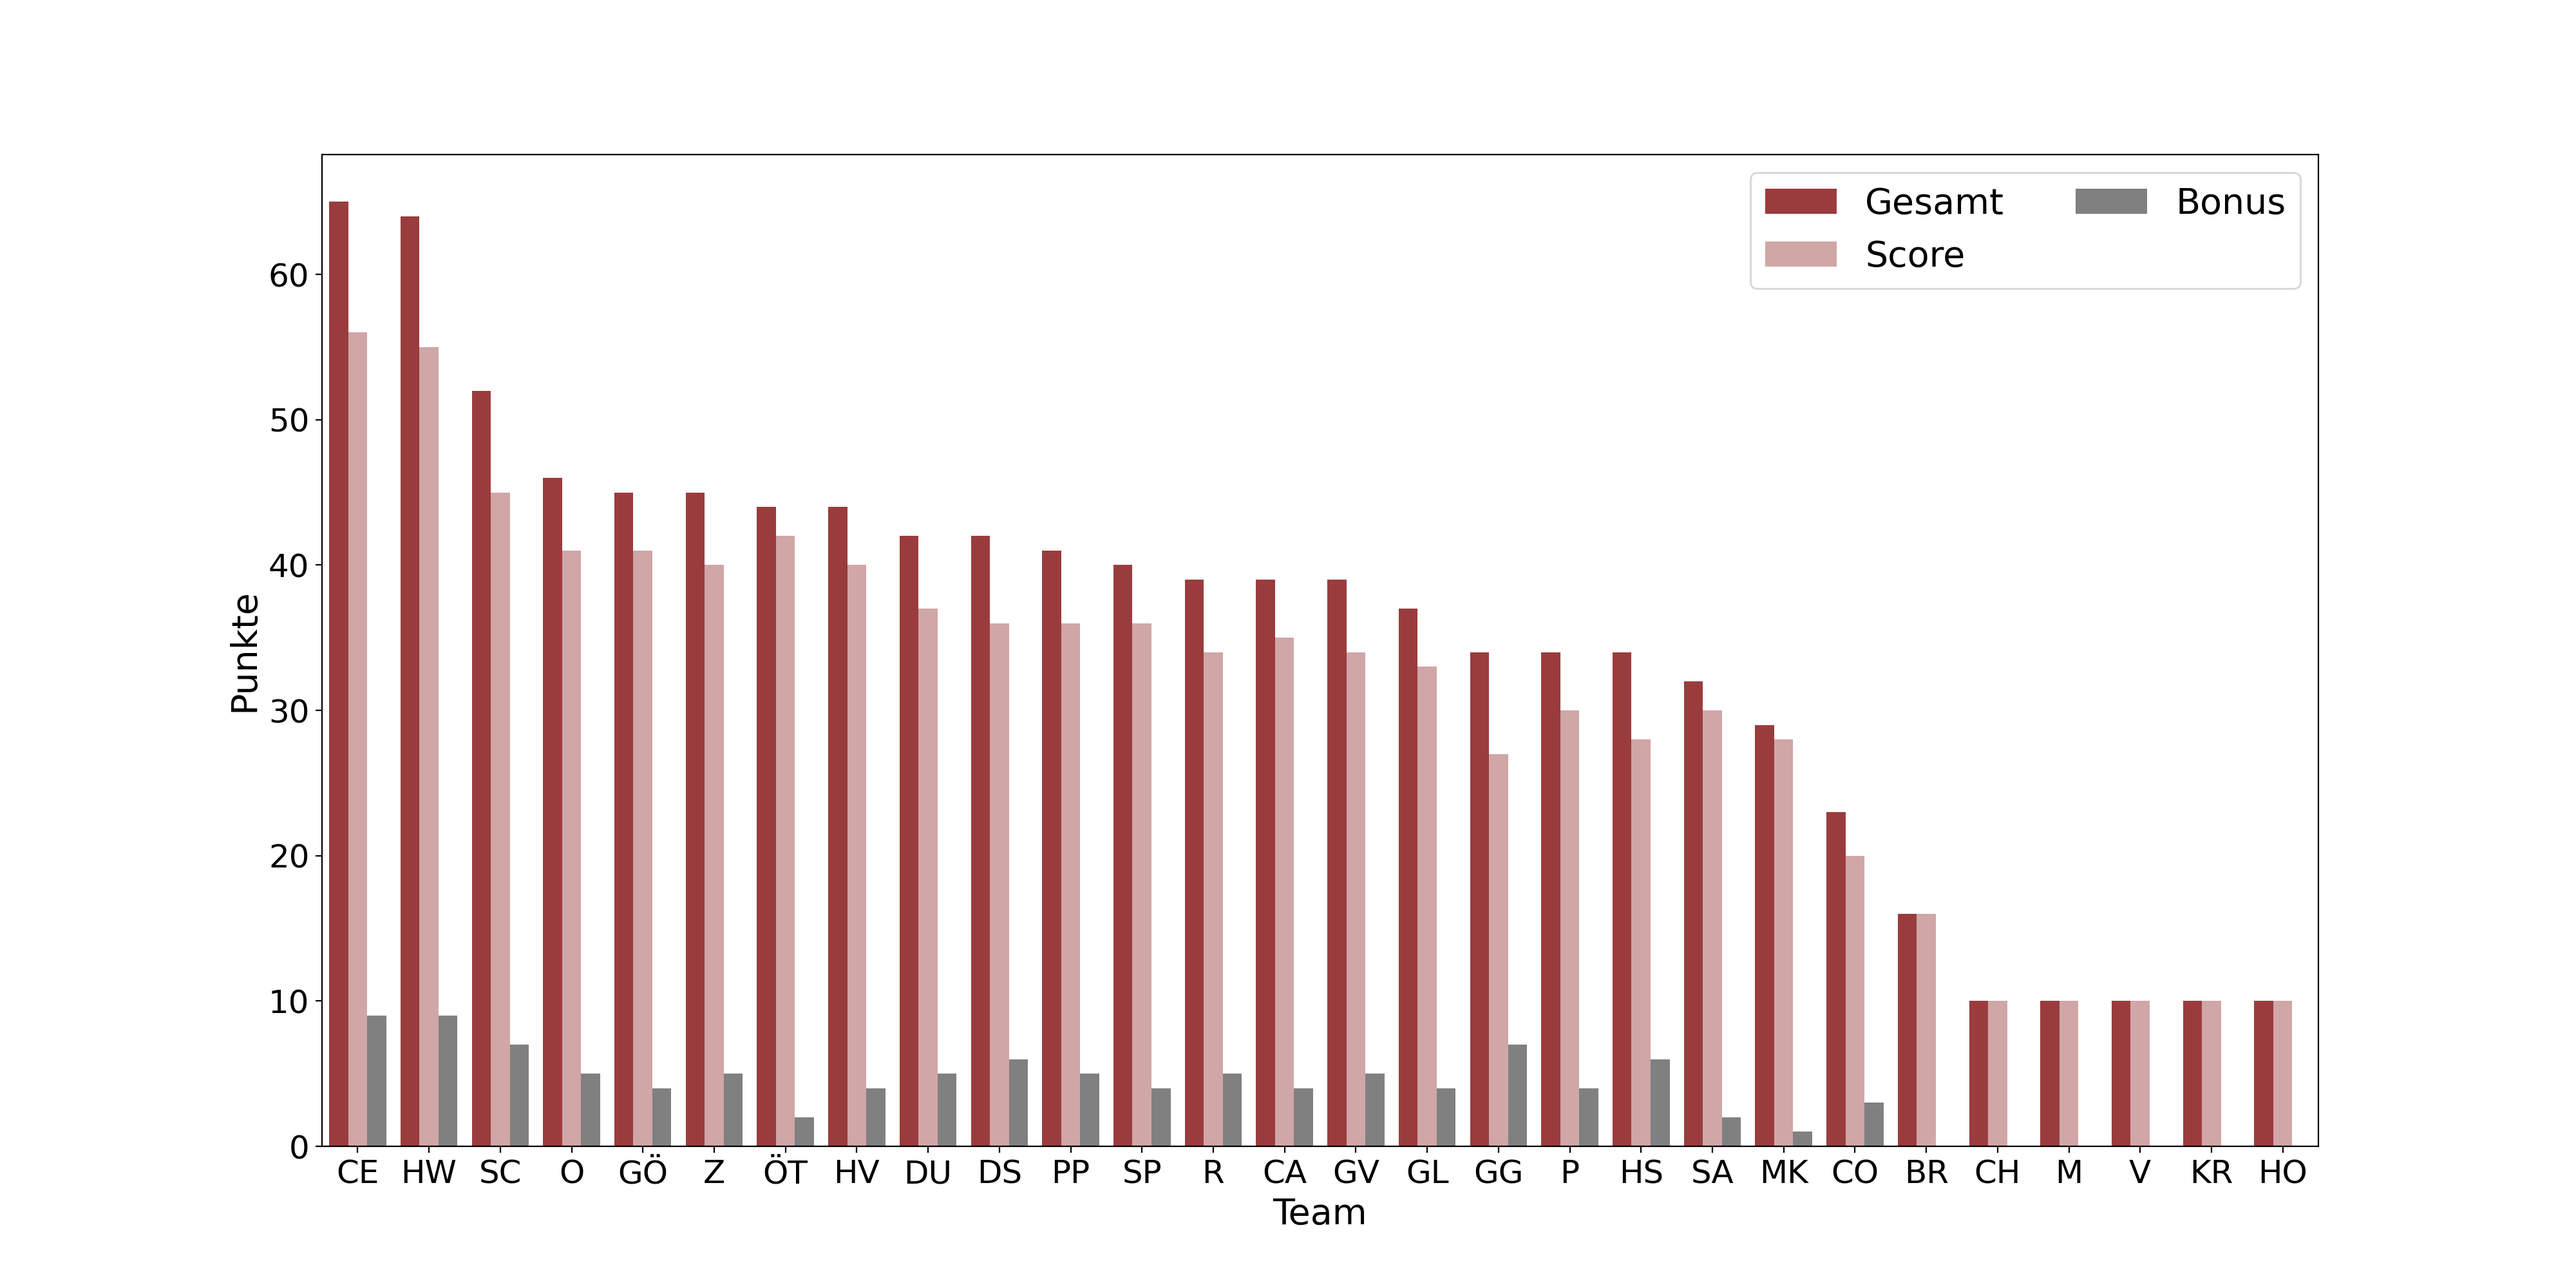
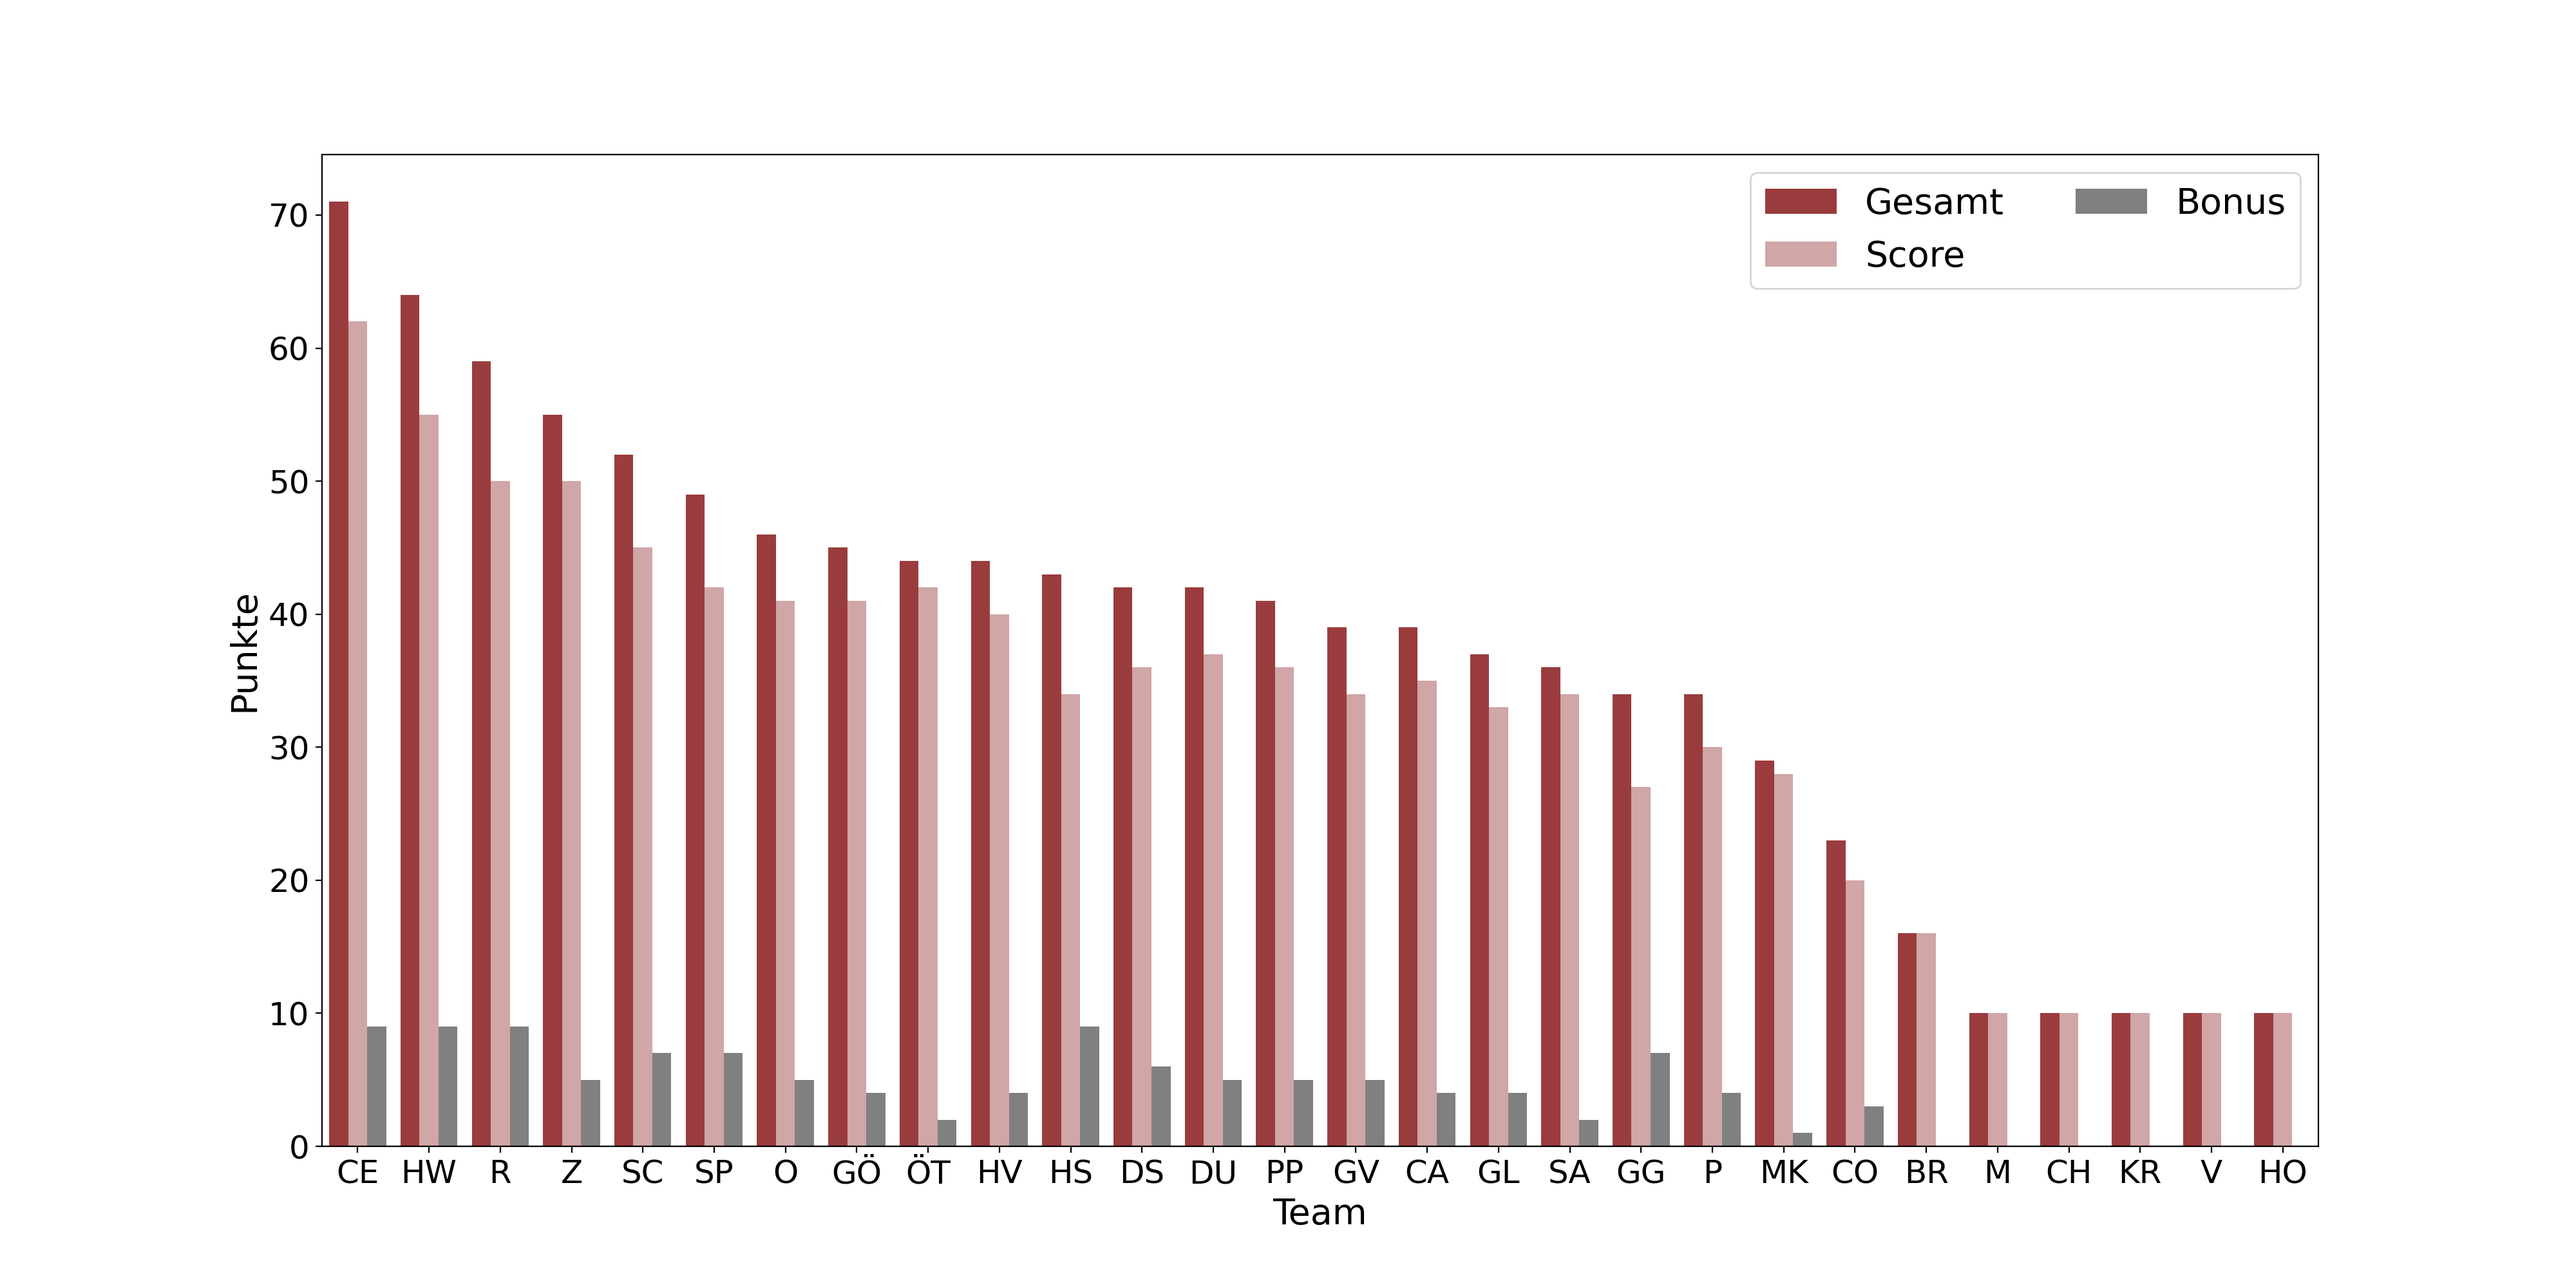
update

diff --git a/css/style_teams.css b/css/style_teams.css
@@ -12,7 +12,7 @@
             background-color: #bde0fe
         }
         .GL {
-            order: 15
+            order: 16
         }
         .GL .team__all-points::after{
             content: "37"
@@ -31,7 +31,7 @@
             background-color: #daeaf6
         }
         .O {
-            order: 3
+            order: 6
         }
         .O .team__all-points::after{ 
             content: " 46"
@@ -39,10 +39,10 @@
 
 
         .Z .team__score::after {
-            content: "40/120"
+            content: "50/120"
         }
         .Z .team__stations::after {
-            content: "6/12"
+            content: "7/12"
         }
         .Z .team__bonus::after {
             content: "5/36"
@@ -51,10 +51,10 @@
             background-color: #9bd0b7
         }
         .Z {
-            order: 5
+            order: 3
         }
         .Z .team__all-points::after{
-            content: "45"
+            content: "55"
         }
 
 
@@ -72,7 +72,7 @@
             background-color: #c23a22
         }
         .M {
-            order: 24
+            order: 23
         }
         .M .team__all-points::after{
             content: "10 "
@@ -92,7 +92,7 @@
             background-color: #dab894
         }
         .DS {
-            order: 9
+            order: 11
         }
         .DS .team__all-points::after{
             content: "42"
@@ -112,7 +112,7 @@
             background-color: #d6eadf
         }
         .DU {
-            order: 8
+            order: 12
         }
         .DU .team__all-points::after{
             content: "42"
@@ -133,7 +133,7 @@
             background-color: #957DAD
         }
         .OT {
-            order: 6
+            order: 8
         }
         .OT .team__all-points::after{
             content: " 44"
@@ -154,7 +154,7 @@
             background-color: #E0BBE4
         }
         .GG {
-            order: 16
+            order: 18
         }
         .GG .team__all-points::after{
              content: "34"
@@ -174,7 +174,7 @@
             background-color: #d291bc
         }
         .CH {
-            order: 23
+            order: 24
         }
         .CH .team__all-points::after{
             content: "10"
@@ -194,7 +194,7 @@
             background-color: #c2d5a8
         }
         .GO {
-            order: 4
+            order: 7
         }
         .GO .team__all-points::after{
             content: "45"
@@ -234,7 +234,7 @@
             background-color: #9d8189
         }
         .SC {
-            order: 2
+            order: 4
         }
         .SC .team__all-points::after{
             content: "52"
@@ -254,7 +254,7 @@
             background-color: #cccccc
         }
         .V {
-            order: 25
+            order: 26
         }
         .V .team__all-points::after{
             content: "10"
@@ -282,10 +282,10 @@
 
 
         .SA .team__score::after {
-            content: "30/120"
+            content: "34/120"
         }
         .SA .team__stations::after {
-            content: "4/12"
+            content: "5/12"
         }
         .SA .team__bonus::after {
             content: "2/36"
@@ -294,10 +294,10 @@
             background-color: #a2d2ff
         }
         .SA {
-            order: 19
+            order: 17
         }
         .SA .team__all-points::after{
-            content: "32"
+            content: "36"
         }
         
 
@@ -314,7 +314,7 @@
             background-color: #5d5b6a
         }
         .P {
-            order: 17
+            order: 19
         }
         .P .team__all-points::after{
             content: "34"
@@ -322,52 +322,52 @@
 
 
         .R .team__score::after {
-            content: "34/120"
+            content: "50/120"
         }
         .R .team__stations::after {
-            content: "4/12"
+            content: "6/12"
         }
         .R .team__bonus::after {
-            content: "5/36"
+            content: "9/36"
         }
         .R .team__logo {
             background-color: #ffafcc
         }
         .R {
-            order: 12
+            order: 2
         }
         .R .team__all-points::after{
-            content: "39"
+            content: "59"
         }
 
 
 
         .HS .team__score::after {
-            content: "28/120"
+            content: "34/120"
         }
         .HS .team__stations::after {
-            content: "4/12"
+            content: "5/12"
         }
         .HS .team__bonus::after {
-            content: "6/36"
+            content: "9/36"
         }
         .HS .team__logo {
             background-color: #efe9ae
         }
         .HS {
-            order: 18
+            order: 10
         }
         .HS .team__all-points::after{
-            content: "34"
+            content: "43"
         }
 
         
 
         .CE .team__score::after {
-            content: "56/120"
+            content: "62/120"
         }
         .CE .team__stations::after {
-            content: "6/12"
+            content: "7/12"
         }
         .CE .team__bonus::after {
             content: "9/36"
@@ -379,7 +379,7 @@
             order: 0
         }
         .CE .team__all-points::after{
-            content: "65"
+            content: "71"
         }
 
 
@@ -396,7 +396,7 @@
             background-color: #7ec4cf
         }
         .PP {
-            order: 10
+            order: 13
         }
         .PP .team__all-points::after{
             content: "41"
@@ -436,7 +436,7 @@
             background-color: #ff8fab
         }
         .KR {
-            order: 26
+            order: 25
         }
         .KR .team__all-points::after{
             content: "10"
@@ -476,7 +476,7 @@
             background-color: #b8e0d2
         }
         .HV {
-            order: 7
+            order: 9
         }
         .HV .team__all-points::after{
             content: "44"
@@ -516,29 +516,29 @@
             background-color: #ffc8dd
         }
         .CA {
-            order: 13
+            order: 15
         }
         .CA .team__all-points::after{
             content: "39"
         }
 
         .SP .team__score::after {
-            content: "36/120"
+            content: "42/120"
         }
         .SP .team__stations::after {
-            content: "4/12"
+            content: "5/12"
         }
         .SP .team__bonus::after {
-            content: "4/36"
+            content: "7/36"
         }
         .SP .team__logo {
             background-color: #f6bc66
         }
         .SP {
-            order: 11
+            order: 5
         }
         .SP .team__all-points::after{
-            content: "40"
+            content: "49"
         }
 
 

diff --git a/css/style_station.css b/css/style_station.css
@@ -4,7 +4,7 @@
         }
         
         .B .station__teams::after {
-            content: "16/28"
+            content: "17/28"
         }
 
         .C .station__teams::after {
@@ -16,7 +16,7 @@
         }
 
         .E .station__teams::after {
-            content: "13/28"
+            content: "14/28"
         }
 
         .F .station__teams::after {
@@ -32,7 +32,7 @@
         }
 
         .I .station__teams::after {
-            content: "9/28"
+            content: "14/28"
         }
 
         .J .station__teams::after {
